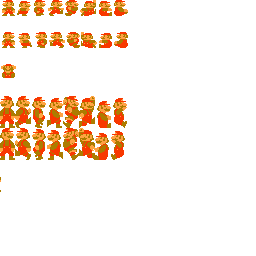
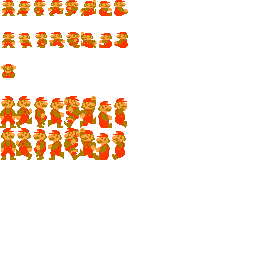
[FIX] hold frame when falling

Changed region(s): [[0.0, 0.375, 0.5, 0.625]]

diff --git a/2D/Player.cpp b/2D/Player.cpp
@@ -229,7 +229,8 @@ void Player::init(const glm::ivec2 &tileMapPos, ShaderProgram &shaderProgram)
 void Player::update(float deltaTime)
 {
     // Animations and stuff
-	sprite->update(deltaTime);
+    if (yState != DOWNWARDS)
+        sprite->update(deltaTime);
 
     // Record state of keys
     bool leftPressed = Game::instance().getSpecialKey(GLUT_KEY_LEFT);
@@ -517,8 +518,6 @@ void Player::updateAnimation(bool leftPressed, bool rightPressed) const
             verticalAnim = VerticalAnim::JUMP;
             break;
         case DOWNWARDS:
-            if (verticalAnim != VerticalAnim::JUMP)
-                verticalAnim = VerticalAnim::STAND;
             break;
         default:
             break;
